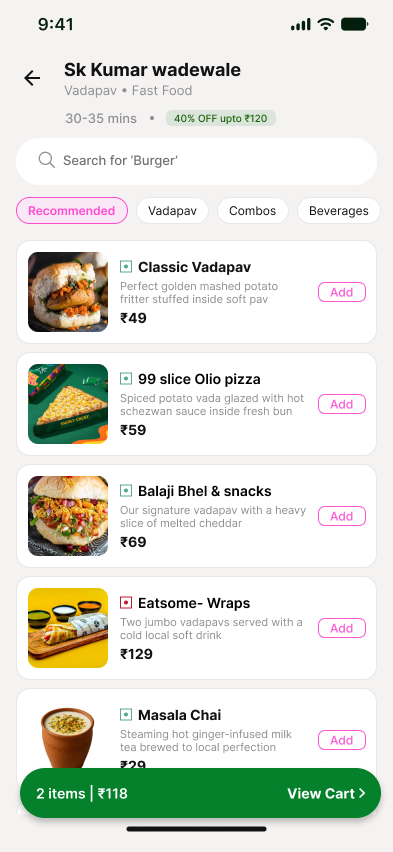
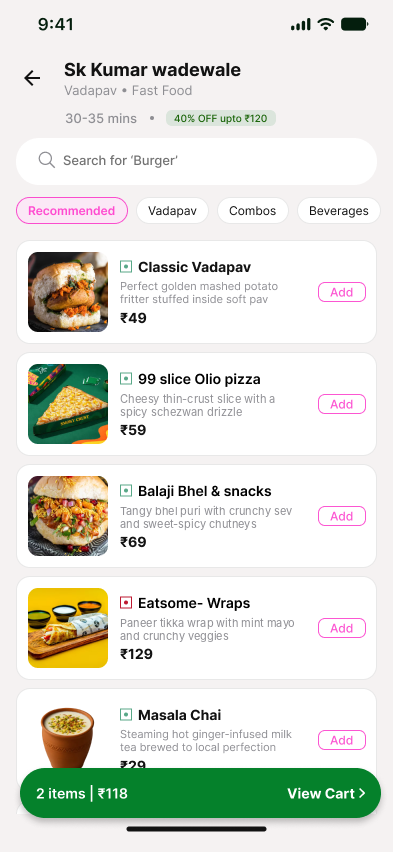
Label RetailPilot as IIT Hyderabad capstone; fix Toing menu copy
Claude-Session: https://claude.ai/code/session_01EXMZoj1frjhmgYoPW7pSk4

diff --git a/rp.html b/rp.html
@@ -47,14 +47,14 @@
 .fjsum{margin-top:14px;font-size:15.5px;color:var(--muted);min-height:1.6em}
 .fjsum b{color:var(--ink)}
 </style></head><body><header class="top"><div class="wrap"><a href="./#work" aria-label="Back to Jeshmi's portfolio">← Jeshmi</a><span class="crumb">Case file 01 · <b>RetailPilot</b></span><a href="pulse.html">Next: Pulse →</a></div><i class="progress" aria-hidden="true"></i></header><main><section class="hero"><div class="wrap">
-<p class="kicker rv"><i class="dot"></i>Case file 01 · B2B SaaS, retail operations · Product concept</p>
+<p class="kicker rv"><i class="dot"></i>Case file 01 · B2B SaaS, retail operations · IIT Hyderabad capstone</p>
 <h1 class="rv" style="--d:1">RetailPilot<span>.</span></h1>
 <p class="lede rv" style="--d:2">Turning stock alerts into decisions a store manager can defend, approve and learn from.</p>
 <dl class="tldr rv" style="--d:3">
 <div><dt>The problem</dt><dd>One reorder decision took around <b>30 minutes</b> across a spreadsheet, phone calls and the ERP. Most of it went into working out whether the alert was even worth acting on.</dd></div>
 <div><dt>What I did</dt><dd>I stopped designing a dashboard and designed a <b>decision</b>: a ranked card with its evidence, three priced options and a purchase order ready to approve.</dd></div>
 <div class="win"><dt>The outcome</dt><dd><span class="big"><span data-count="30">30</span>→<span data-count="3" data-from="30">3</span><small>min</small></span><br>per decision in walkthroughs, and about 40% less money at risk in dead stock.</dd></div>
-<div><dt>My role</dt><dd class="facts"><div><span>Role</span><span>Product designer</span></div><div><span>Scope</span><span>Research, UX, UI, system</span></div><div><span>Timeline</span><span>3 months</span></div><div><span>Team</span><span>Solo designer</span></div><div><span>Platform</span><span>Web, tablet voice</span></div></dd></div>
+<div><dt>My role</dt><dd class="facts"><div><span>Role</span><span>Product designer</span></div><div><span>Scope</span><span>Research, UX, UI, system</span></div><div><span>Context</span><span>IIT Hyderabad capstone</span></div><div><span>Timeline</span><span>3 months</span></div><div><span>Team</span><span>Solo designer</span></div><div><span>Platform</span><span>Web, tablet voice</span></div></dd></div>
 </dl></div>
 <div class="wrap"><div class="stage"><div class="tilt"><figure class="oshot"><img src="img/cs/o-rp-inbox.webp" alt="RetailPilot decision inbox: three decisions ranked by rupees at stake, each with confidence and one primary action." width="1440" height="1120" decoding="async"></figure></div></div></div></section><section class="sec"><div class="wrap"><div class="sh rv"><div><p class="num">01 · The problem</p><h2>The alert took two minutes. Everything after it took twenty-eight.</h2></div><p>I shadowed the reorder process end to end. The inventory tool was good at saying a SKU was low. Everything after that happened outside it, in four places, and the manager was the only thing connecting them.</p></div><div class="lanes rv"><div class="lane"><b>Inventory tool</b><div class="track"><span class="seg" style="left:0.00%;width:6.67%;background:#2563EB;color:#fff;--d:0" title="Alert">Alert</span></div></div><div class="lane"><b>Spreadsheet</b><div class="track"><span class="seg" style="left:10.00%;width:36.67%;background:#DCFCE7;color:#14532D;--d:1" title="Pulls sales, works out the gap">Pulls sales, works out the gap</span><span class="seg" style="left:76.67%;width:10.00%;background:#DCFCE7;color:#14532D;--d:2" title="Sizes order">Sizes order</span></div></div><div class="lane"><b>Phone & WhatsApp</b><div class="track"><span class="seg" style="left:50.00%;width:23.33%;background:#FEF3C7;color:#78350F;--d:3" title="Lead time, asks owner">Lead time, asks owner</span></div></div><div class="lane"><b>ERP</b><div class="track"><span class="seg" style="left:86.67%;width:13.33%;background:#E2E8F0;color:#1E293B;--d:4" title="Re-keys and raises PO">Re-keys and raises PO</span></div></div><div class="lane" style="border-top:2px solid var(--ink)"><b style="color:var(--tint-ink)">With RetailPilot</b><div class="track"><span class="seg" style="left:0;width:10%;background:var(--magenta);color:#fff;--d:5">3 min</span></div></div><div class="axis"><span></span><div><span>0</span><span>5</span><span>10</span><span>15</span><span>20</span><span>25</span><span>30 min</span></div></div><p style="margin-top:14px;font-size:13.5px;color:var(--muted)">One reorder decision for a fast-moving SKU, from my shadowing notes. Durations are approximate and vary by store.</p></div><div class="g3" style="margin-top:40px"><div class="card rv" style="--d:0"><span class="lab">Pain 1</span><h3>No reason to act</h3><p>The alert said “low stock”. It didn’t say whether that was a problem, how big, or what to order.</p></div><div class="card rv" style="--d:1"><span class="lab">Pain 2</span><h3>The reasoning got lost</h3><p>The thinking lived in a spreadsheet nobody else saw, so the owner just saw a PO and a number.</p></div><div class="card rv" style="--d:2"><span class="lab">Pain 3</span><h3>Nothing came back</h3><p>Once the PO went out, nobody checked if the quantity was right. The same mistake came back next season.</p></div></div></div></section><section class="sec"><div class="wrap"><div class="sh rv"><div><p class="num">02 · Research</p><h2>I went to the stockroom before I opened Figma.</h2></div><p>Most of the first month was research. I wanted to understand how a reorder actually happens, not how the tools say it should.</p></div><div class="g3"><div class="card rv" style="--d:0"><span class="lab">Method 1</span><h3>Contextual interviews</h3><p>Store and operations managers walked me through their last few reorders, using their own sheets and WhatsApp threads.</p></div><div class="card rv" style="--d:1"><span class="lab">Method 2</span><h3>Shadowing</h3><p>I sat with managers during the morning stock check and timed each step of a real decision. That became the swimlane above.</p></div><div class="card rv" style="--d:2"><span class="lab">Method 3</span><h3>Tool audit</h3><p>I went through the inventory and planning tools Indian retailers use, and looked at where each one stops helping.</p></div></div><h3 class="rv" style="margin-top:56px;font-size:24px;letter-spacing:-.02em">Affinity map</h3><p class="prose rv" style="margin-top:6px">Notes from interviews and shadowing, grouped into five themes. Each theme became one product move.</p><div class="fjtabs rv" role="group" aria-label="Filter themes"><button type="button" aria-pressed="true" data-fj="all">All themes</button><button type="button" aria-pressed="false" data-fj="detect">Detection</button><button type="button" aria-pressed="false" data-fj="interp">Interpretation</button><button type="button" aria-pressed="false" data-fj="wait">Waiting</button><button type="button" aria-pressed="false" data-fj="trust">Trust</button><button type="button" aria-pressed="false" data-fj="learn">Learning</button></div><div class="fjwrap rv"><div class="scaler" data-min="0.62"><div class="app fj" data-w="1084" data-h="1250" id="fjboard"><div class="file"><i></i>RetailPilot · Research synthesis <small>Drafts</small></div><div class="people"><b style="background:#9B2F66">JH</b><em>Share</em></div><div class="sec" data-sec="detect" style="left:40px;top:110px;width:328px;background:#FFF7DB;outline:1.5px solid #E8A40033"><h4 style="background:#E8A400">Detection without direction</h4><span class="cnt">4 notes</span><div class="grid"><div class="st" style="background:#FFE8A3">Dashboard says what is wrong, never what to do<span>Jeshmi</span></div><div class="st" style="background:#FFE8A3">Alerts list every SKU below reorder, unranked<span>Jeshmi</span></div><div class="st" style="background:#FFE8A3">Scans the whole table for the same three items<span>Jeshmi</span></div><div class="st" style="background:#FFE8A3">No recommended quantity anywhere<span>Jeshmi</span></div></div><div class="shaped">→ Shaped <b>The decision inbox</b></div></div><div class="sec" data-sec="interp" style="left:388px;top:110px;width:328px;background:#EAF6FF;outline:1.5px solid #0D99FF33"><h4 style="background:#0D99FF">The interpretation tax</h4><span class="cnt">5 notes</span><div class="grid"><div class="st" style="background:#C2E5FF">Exports to a spreadsheet to size the exposure<span>Jeshmi</span></div><div class="st" style="background:#C2E5FF">Rebuilds the cause from three different screens<span>Jeshmi</span></div><div class="st" style="background:#C2E5FF">Re-keys the same numbers into the PO tool<span>Jeshmi</span></div><div class="st" style="background:#C2E5FF">Keeps a private sheet of SKUs to watch<span>Jeshmi</span></div><div class="st" style="background:#C2E5FF">Mental maths on lead time against cover<span>Jeshmi</span></div></div><div class="shaped">→ Shaped <b>Evidence and a drafted PO</b></div></div><div class="sec" data-sec="wait" style="left:736px;top:110px;width:328px;background:#FFEDEB;outline:1.5px solid #F2482233"><h4 style="background:#F24822">Waiting looks free</h4><span class="cnt">4 notes</span><div class="grid"><div class="st" style="background:#FFC7C2">No number attached to doing nothing<span>Jeshmi</span></div><div class="st" style="background:#FFC7C2">Deferring a decision always feels free<span>Jeshmi</span></div><div class="st" style="background:#FFC7C2">Urgency set by whoever complained last<span>Jeshmi</span></div><div class="st" style="background:#FFC7C2">Festival spike ordered as if it would last<span>Jeshmi</span></div></div><div class="shaped">→ Shaped <b>“Wait 7 days” as a priced option</b></div></div><div class="sec" data-sec="trust" style="left:40px;top:700px;width:328px;background:#EEFBE8;outline:1.5px solid #14AE5C33"><h4 style="background:#14AE5C">Trust has to be earned</h4><span class="cnt">4 notes</span><div class="grid"><div class="st" style="background:#D3F5C4">Has to defend the order quantity to the owner<span>Jeshmi</span></div><div class="st" style="background:#D3F5C4">Won’t accept a number they can’t explain<span>Jeshmi</span></div><div class="st" style="background:#D3F5C4">Supplier lead time is just a WhatsApp message<span>Jeshmi</span></div><div class="st" style="background:#D3F5C4">Distrusts a forecast that missed last month<span>Jeshmi</span></div></div><div class="shaped">→ Shaped <b>Evidence labels on every input</b></div></div><div class="sec" data-sec="learn" style="left:388px;top:700px;width:328px;background:#F4EBFF;outline:1.5px solid #9747FF33"><h4 style="background:#9747FF">Nothing learns</h4><span class="cnt">4 notes</span><div class="grid"><div class="st" style="background:#E4CCFF">Forecast never corrected by what happened<span>Jeshmi</span></div><div class="st" style="background:#E4CCFF">Nobody checks whether the reorder worked<span>Jeshmi</span></div><div class="st" style="background:#E4CCFF">The same mistake repeats next season<span>Jeshmi</span></div><div class="st" style="background:#E4CCFF">No record of why an order was sized that way<span>Jeshmi</span></div></div><div class="shaped">→ Shaped <b>The outcome report</b></div></div><div class="sec" data-sec="all" style="left:736px;top:700px;width:328px;background:#FFF0FA;outline:1.5px solid #FF24BD33"><h4 style="background:#FF24BD">So what</h4><span class="cnt">5 themes, 5 product moves</span><div style="display:grid;gap:10px"><div class="st" style="background:#FFC7EB;width:296px;height:auto;min-height:58px;font-weight:600">1. Detection without direction → The decision inbox<span style="margin-top:4px">Product move</span></div><div class="st" style="background:#FFC7EB;width:296px;height:auto;min-height:58px;font-weight:600">2. The interpretation tax → Evidence and a drafted PO<span style="margin-top:4px">Product move</span></div><div class="st" style="background:#FFC7EB;width:296px;height:auto;min-height:58px;font-weight:600">3. Waiting looks free → “Wait 7 days” as a priced option<span style="margin-top:4px">Product move</span></div><div class="st" style="background:#FFC7EB;width:296px;height:auto;min-height:58px;font-weight:600">4. Trust has to be earned → Evidence labels on every input<span style="margin-top:4px">Product move</span></div><div class="st" style="background:#FFC7EB;width:296px;height:auto;min-height:58px;font-weight:600">5. Nothing learns → The outcome report<span style="margin-top:4px">Product move</span></div></div></div><div class="cur" id="cur1" style="transform:translate(300px,340px)"><svg width="18" height="20" viewBox="0 0 18 20"><path d="M1 1l15 8-6.5 1.6L6.4 18z" fill="#9B2F66" stroke="#fff" stroke-width="1.5"/></svg><span style="background:#9B2F66">Jeshmi</span></div><div class="tools"><i class="on"><s style="border-radius:0;border:0;width:0;height:0;border-left:7px solid transparent;border-right:7px solid transparent;border-bottom:12px solid #0D99FF;transform:rotate(-30deg)"></s></i><i><s style="background:#FFE8A3;border-color:#E8A400"></s></i><i><s style="border-radius:50%"></s></i><i><s style="border:0;border-top:2px solid #333;transform:rotate(-30deg);height:2px;width:18px"></s></i><i><b style="font:700 15px var(--ui)">T</b></i><i><s style="border-style:dashed"></s></i></div><div class="zoom">86%</div></div></div></div><p class="fjsum" id="fjsum" aria-live="polite"><b>21 notes, five themes.</b> Pick a theme to see what it turned into.</p><script>(() => {const S={"detect": "<b>Detection without direction.</b> 4 notes from interviews and shadowing. It shaped <b>The decision inbox</b>.", "interp": "<b>The interpretation tax.</b> 5 notes from interviews and shadowing. It shaped <b>Evidence and a drafted PO</b>.", "wait": "<b>Waiting looks free.</b> 4 notes from interviews and shadowing. It shaped <b>\u201cWait 7 days\u201d as a priced option</b>.", "trust": "<b>Trust has to be earned.</b> 4 notes from interviews and shadowing. It shaped <b>Evidence labels on every input</b>.", "learn": "<b>Nothing learns.</b> 4 notes from interviews and shadowing. It shaped <b>The outcome report</b>.", "all": "<b>21 notes, five themes.</b> Pick a theme to see what it turned into."};const b=document.getElementById('fjboard'),out=document.getElementById('fjsum');
 document.querySelectorAll('[data-fj]').forEach(t=>t.addEventListener('click',()=>{const k=t.dataset.fj;document.querySelectorAll('[data-fj]').forEach(x=>x.setAttribute('aria-pressed',x===t));b.classList.toggle('focus',k!=='all');b.querySelectorAll('.sec').forEach(s=>s.classList.toggle('on',s.dataset.sec===k));out.innerHTML=S[k];}));

diff --git a/index.html b/index.html
@@ -429,7 +429,7 @@ body { background-image: linear-gradient(var(--grid) 1px, transparent 1px), line
 <section class="cf" id="work" aria-labelledby="cf-h">
   <div class="cf-head">
     <h2 id="cf-h" data-split>Case files<span>.</span></h2>
-    <p>Three product concepts, unpacked. My shipped client work is under NDA, so it’s summarised in <a href="#experience" style="color:inherit;text-decoration:underline;text-underline-offset:3px">Where I’ve worked</a>.<span class="note" aria-hidden="true">they stack as you scroll ↓</span></p>
+    <p>Three concept projects, including my IIT Hyderabad capstone. My shipped client work is under NDA, so it’s summarised in <a href="#experience" style="color:inherit;text-decoration:underline;text-underline-offset:3px">Where I’ve worked</a>.<span class="note" aria-hidden="true">they stack as you scroll ↓</span></p>
   </div>
   <ol class="cf-list" data-cf-list>
     <li class="cf-item" style="--i:0;--tint:#F9DCE9" data-cf-item>
@@ -441,7 +441,7 @@ body { background-image: linear-gradient(var(--grid) 1px, transparent 1px), line
           <h3>Reducing merchant decision latency and capital risk in retail operations</h3>
           <p>A decision tool that turns each stock problem into one card: what’s happening, how sure we are, what waiting costs, and the order to place.</p>
           <p class="cf-metric"><b>30 → 3 min</b><span>per reorder decision, in walkthroughs</span></p>
-          <div class="cf-row"><span class="cf-meta">Product concept · Research, UX, UI</span><a class="cf-go" data-cursor="Open" data-mag href="rp.html">Read case study <span aria-hidden="true">→</span></a></div>
+          <div class="cf-row"><span class="cf-meta">IIT Hyderabad capstone · 3 months</span><a class="cf-go" data-cursor="Open" data-mag href="rp.html">Read case study <span aria-hidden="true">→</span></a></div>
         </div>
       </article>
     </li>
